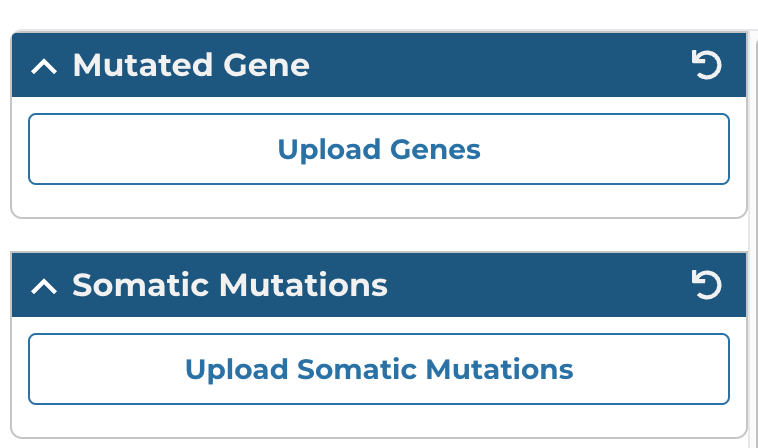
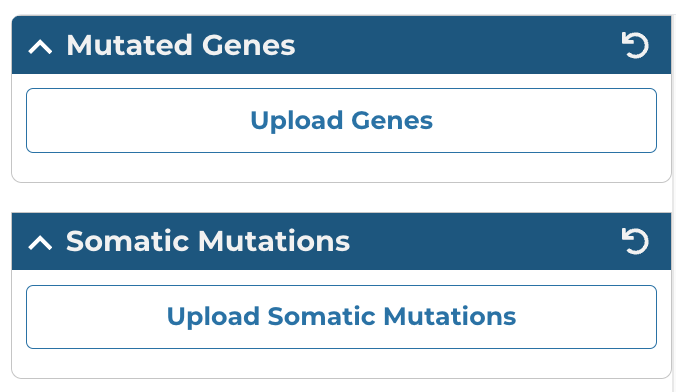
changed screenshots, minor text change

Changed region(s): [[0.0, 0.0306, 1.0, 1.0]]

diff --git a/docs/Data_Portal/Users_Guide/mutation_frequency.md b/docs/Data_Portal/Users_Guide/mutation_frequency.md
@@ -127,7 +127,7 @@ The table contains the following fields:
   * __Primary Site__: The anatomical site affected by the disease
   * __# SSM Affected Cases__: The number of affected cases and total number of cases displayed as a fraction and percentage
 
-## Custom Mutated Gene and Somatic Mutation Filters
+## Custom Mutated Genes and Somatic Mutation Filters
 
 [![Custom Gene/Mutation Filters](images/CustomGeneMutationFilters.png)](images/CustomGeneMutationFilters.png "Click to see the full image.")
 
